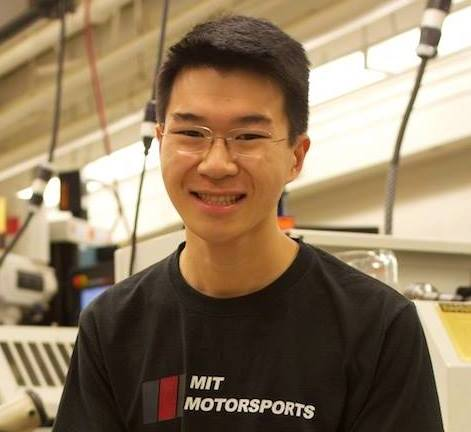
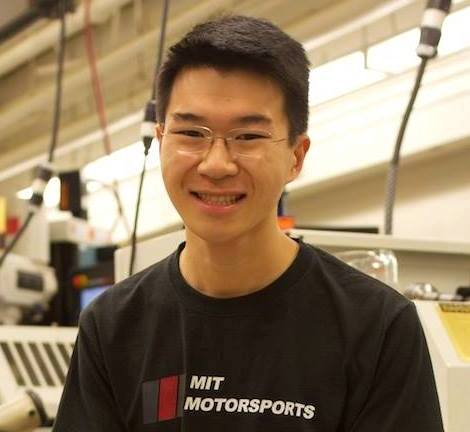
Added a fun link for Jonathan. :P Made Kevin's picture have even-numbered dimensions.

diff --git a/j-entry-page/j-entry-page.html b/j-entry-page/j-entry-page.html
@@ -299,6 +299,10 @@
 					<p>
             J-Entry is easy going, approachable, and fun. We are all pretty low key people that you can see yourself playing your favorite game with, watching a movie, or maybe even knocking out a few problem sets. We're like Jello, but please, only the green kind, not the red, the red is just nasty I honestly cant figure out why people even serve that chaff to people these days. Anyways, like Jello, we bounce around while remaining a relatively comfortable, consistent facet of your residential life.
 					</p>
+					<h4>Just for Fun:</h4>
+					<p>
+						<a href="http://thebacklabel.com/wp-content/uploads/2014/05/bill-gates-desk-picture.jpg">This picture.</a>
+					</p>
 				</div>
 			</li>
       <li class="col-lg-3 col-md-2 col-sm-12 col-xs-12">
